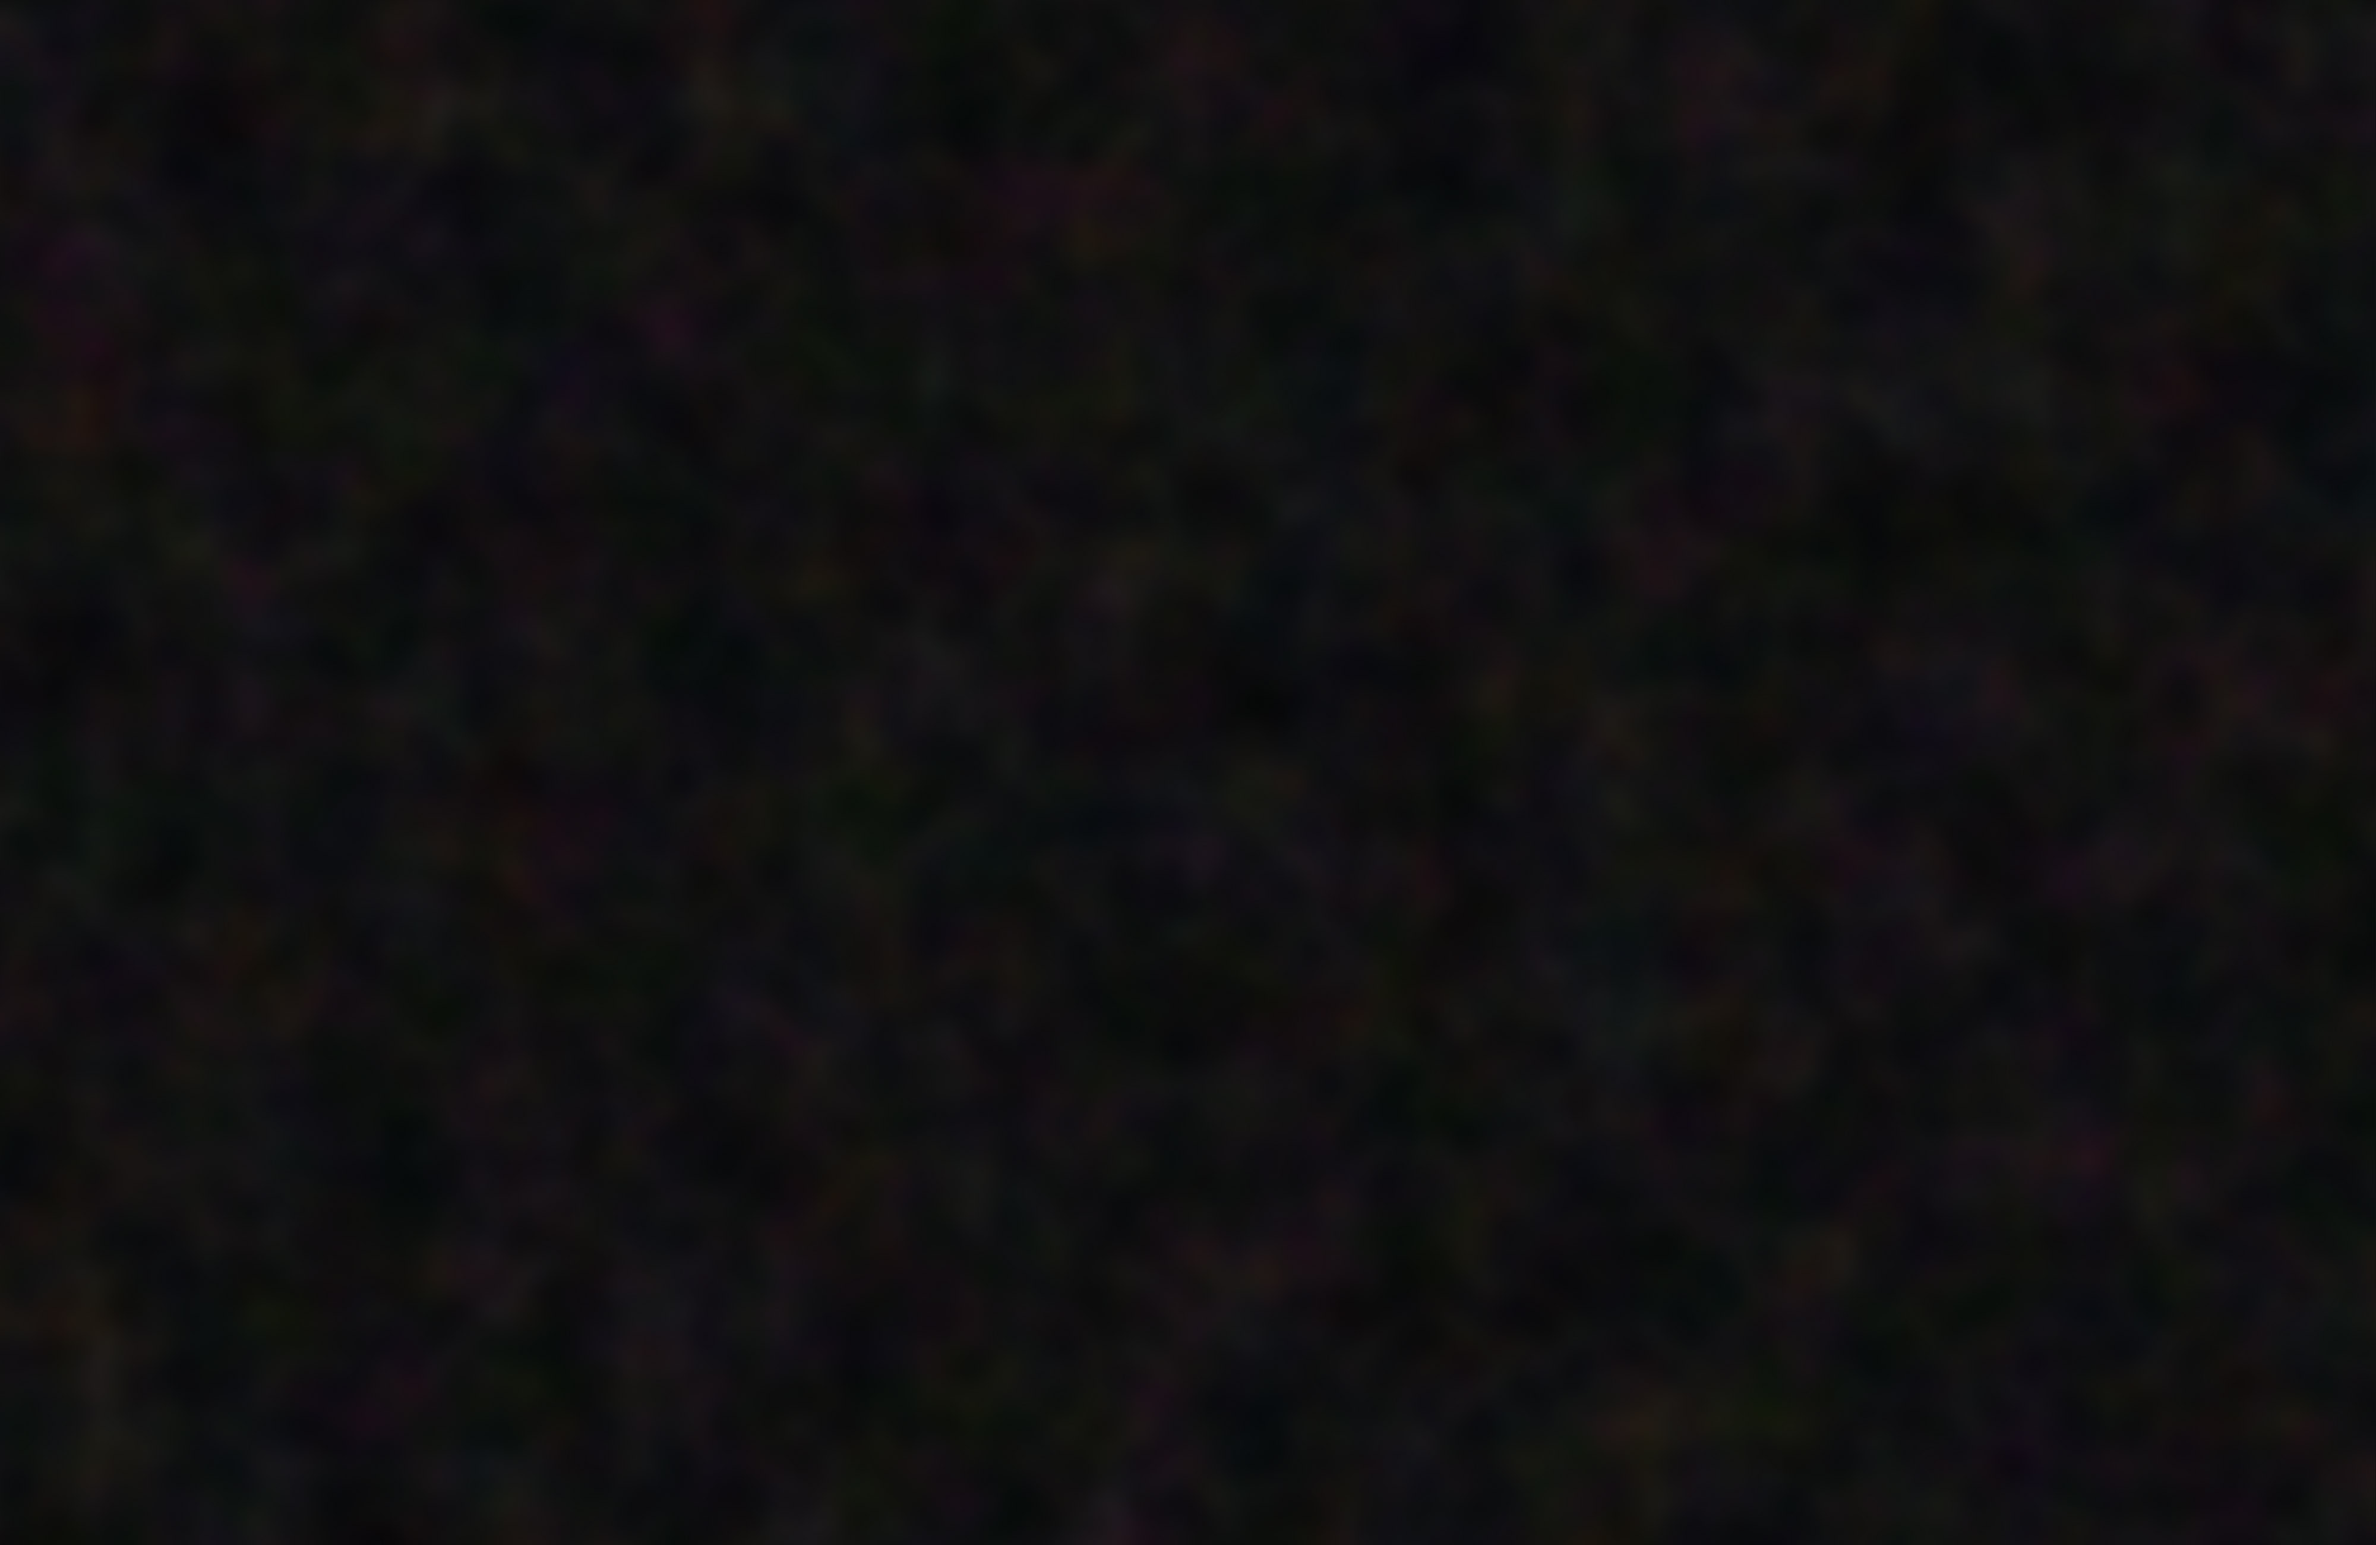
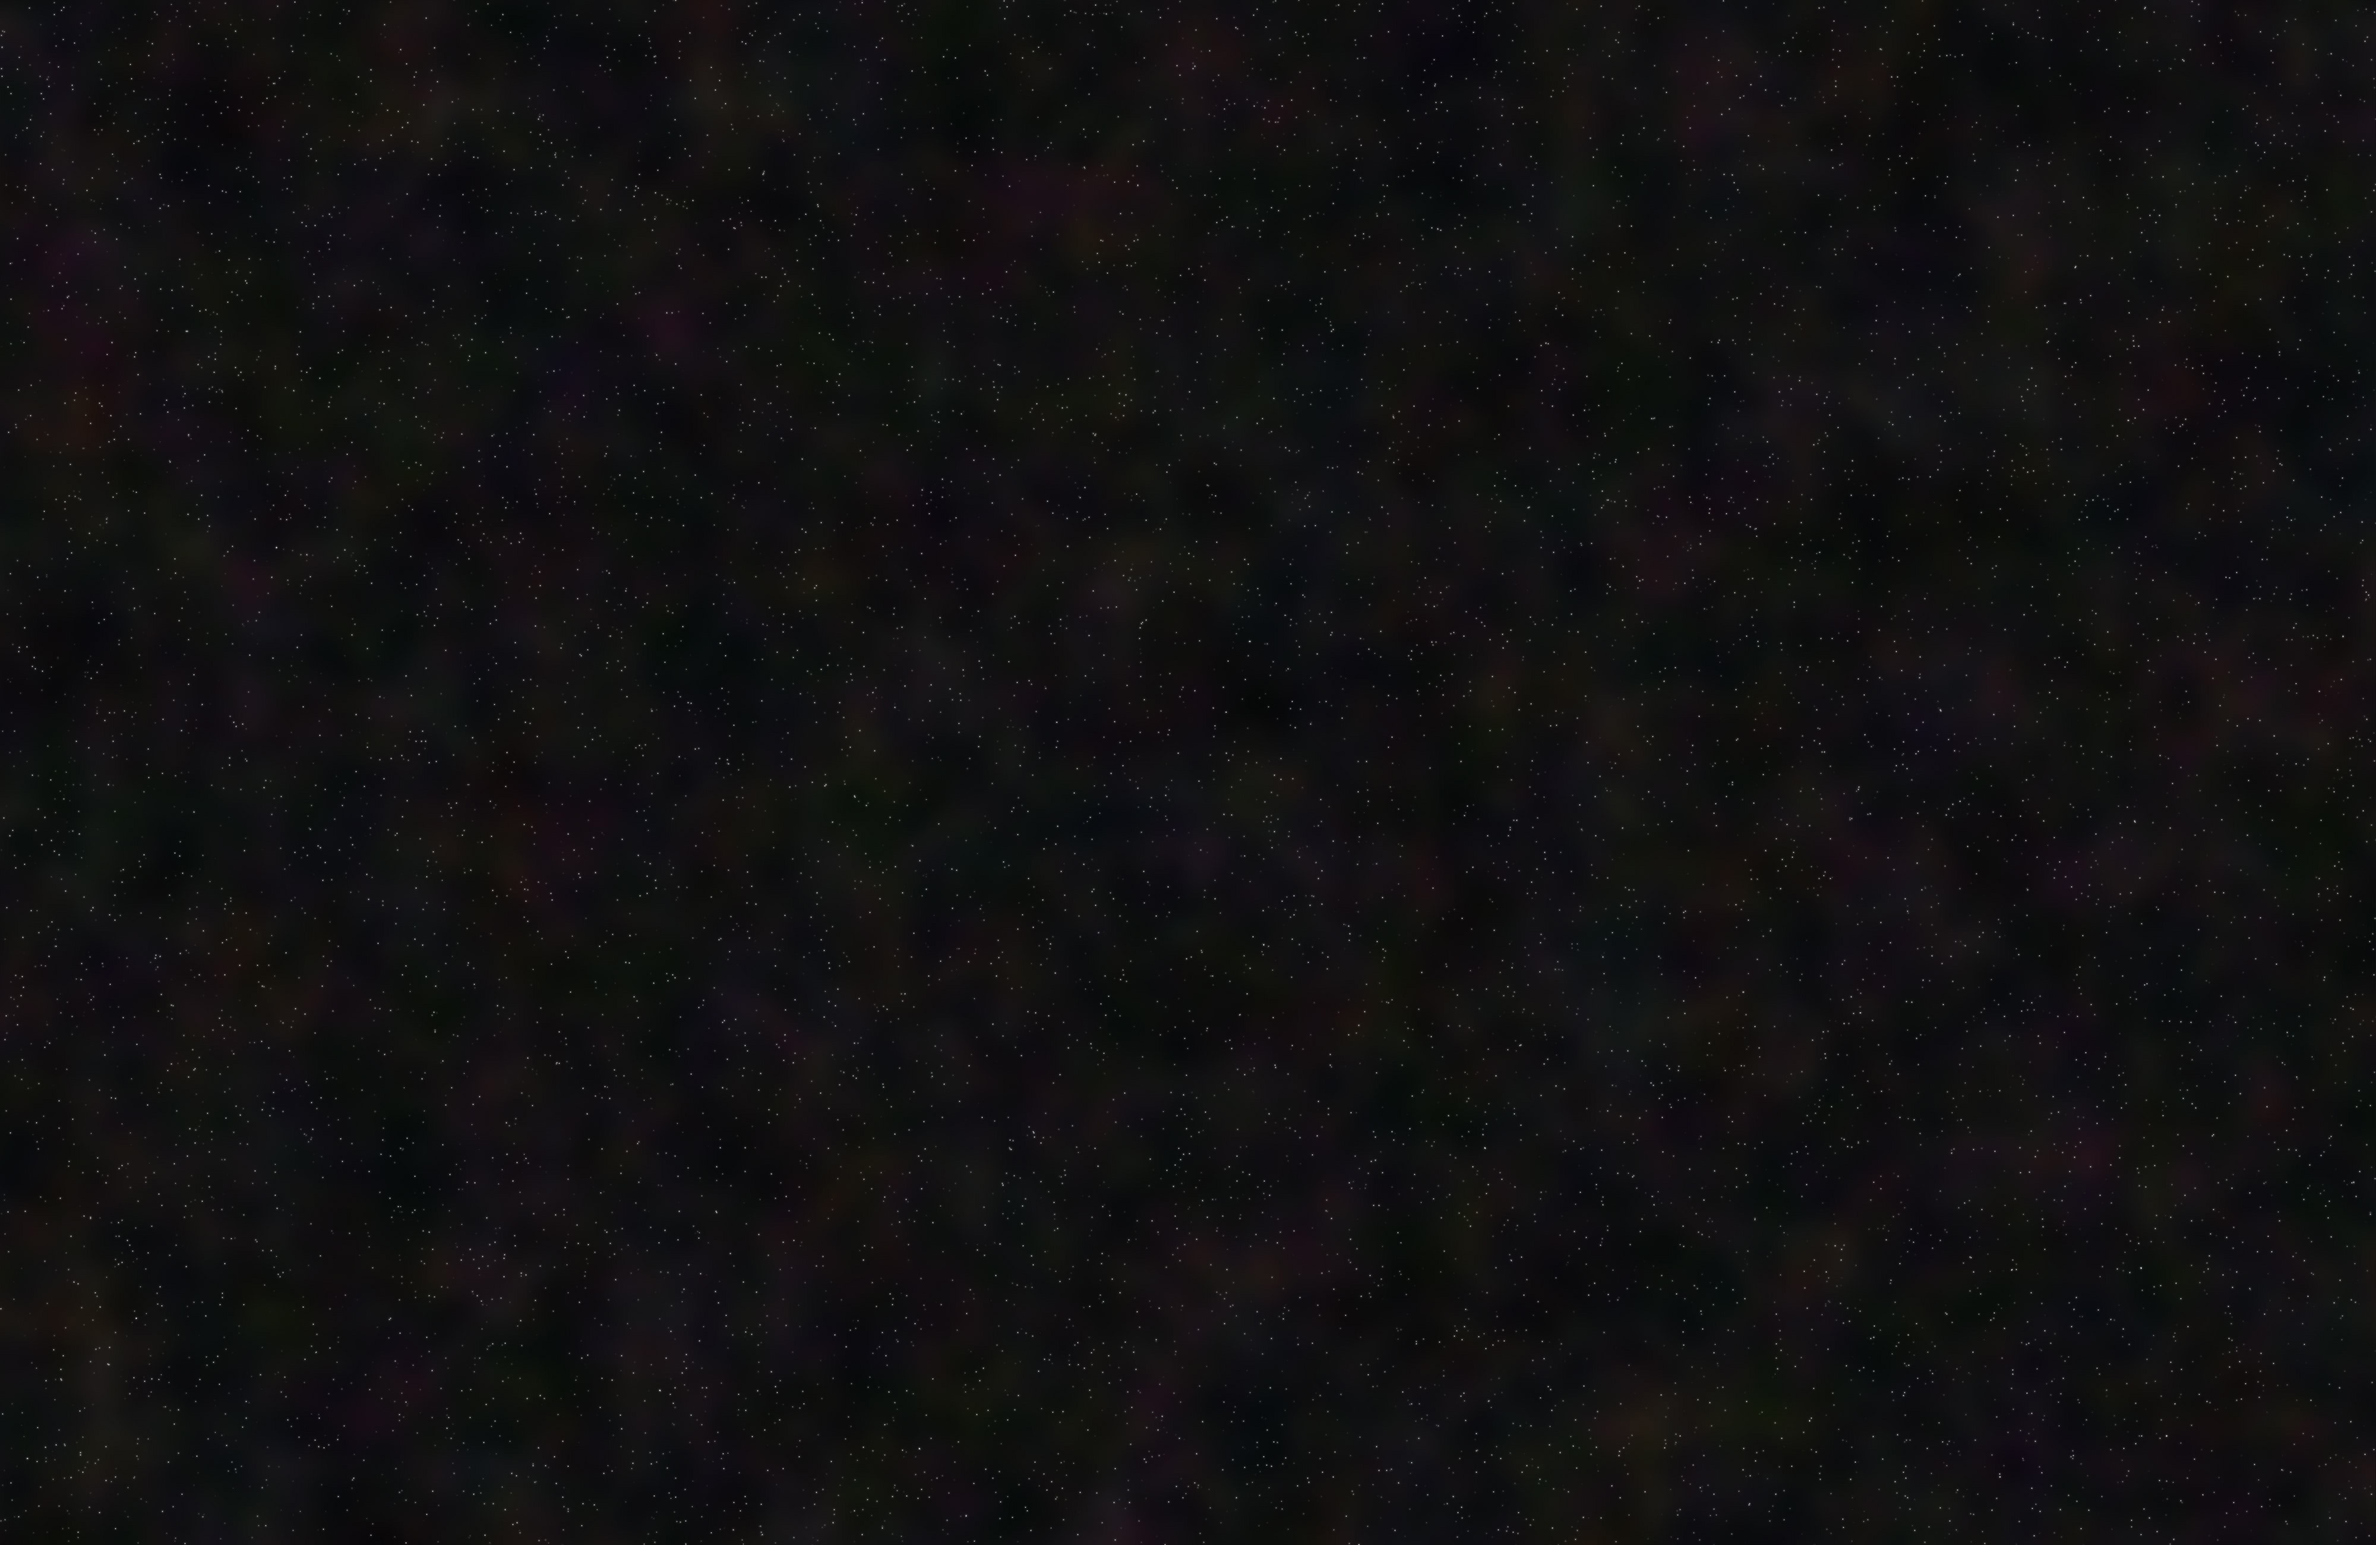
parallax star layers are no longer at same rotation

diff --git a/js/starfield.js b/js/starfield.js
@@ -17,7 +17,7 @@ function drawStarfield() {
 
 // new version: use two image files for speed and simplicity
 function initStarfields() {
-    cachedStarfields = [nebulaePic,starsPic,starsPic];
+    cachedStarfields = [nebulaePic,starsPic];
 }
 
 /* 
